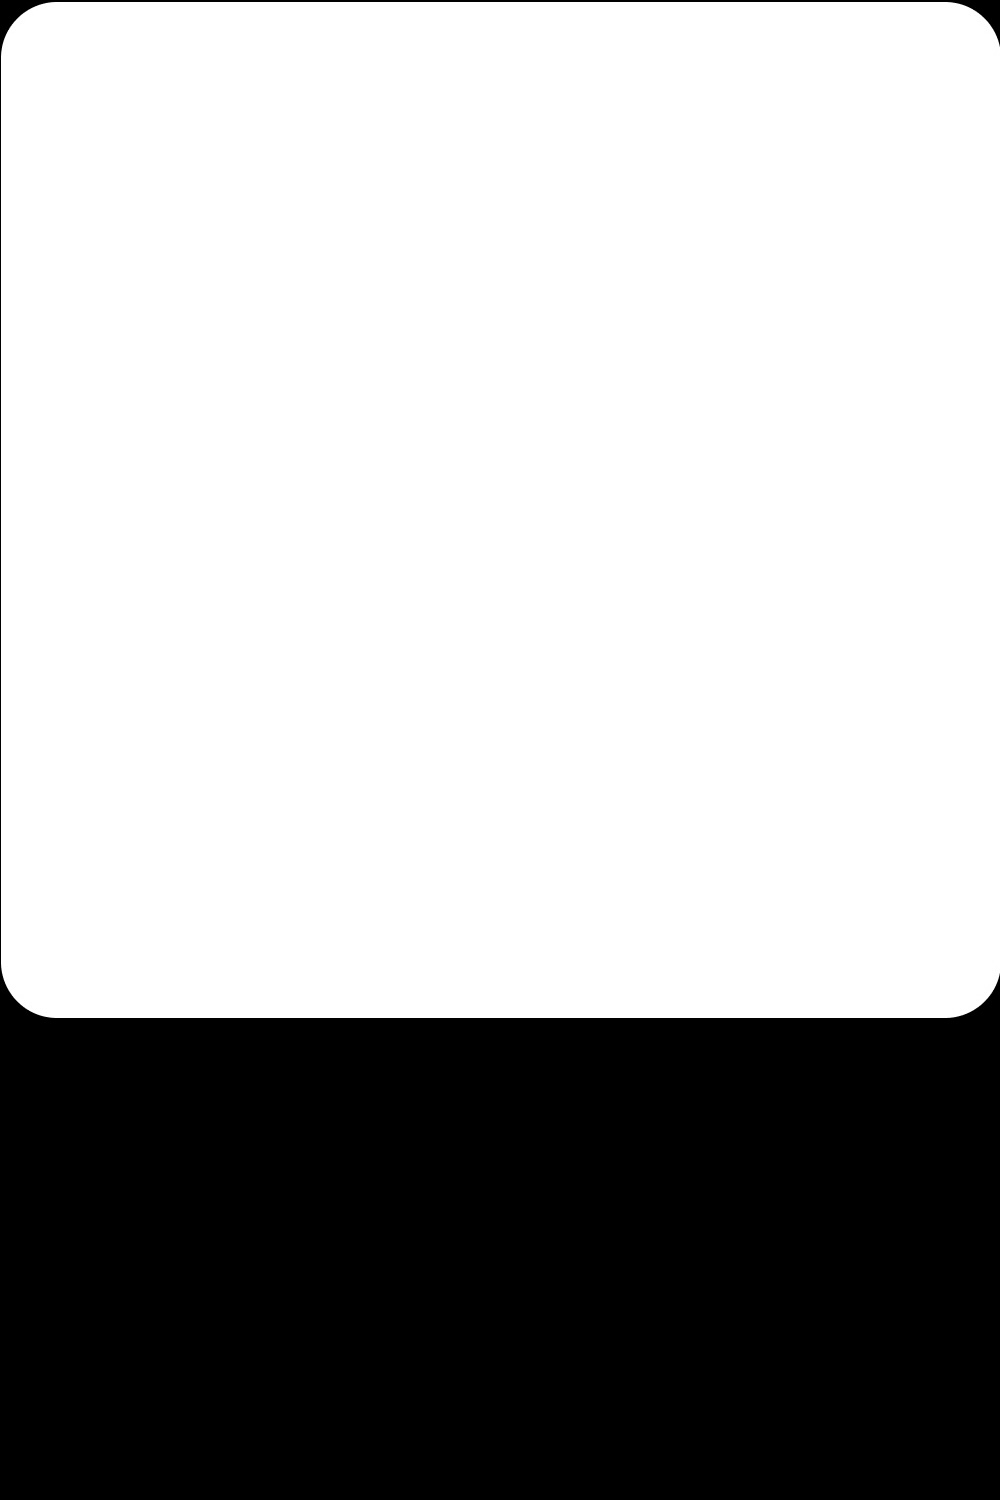
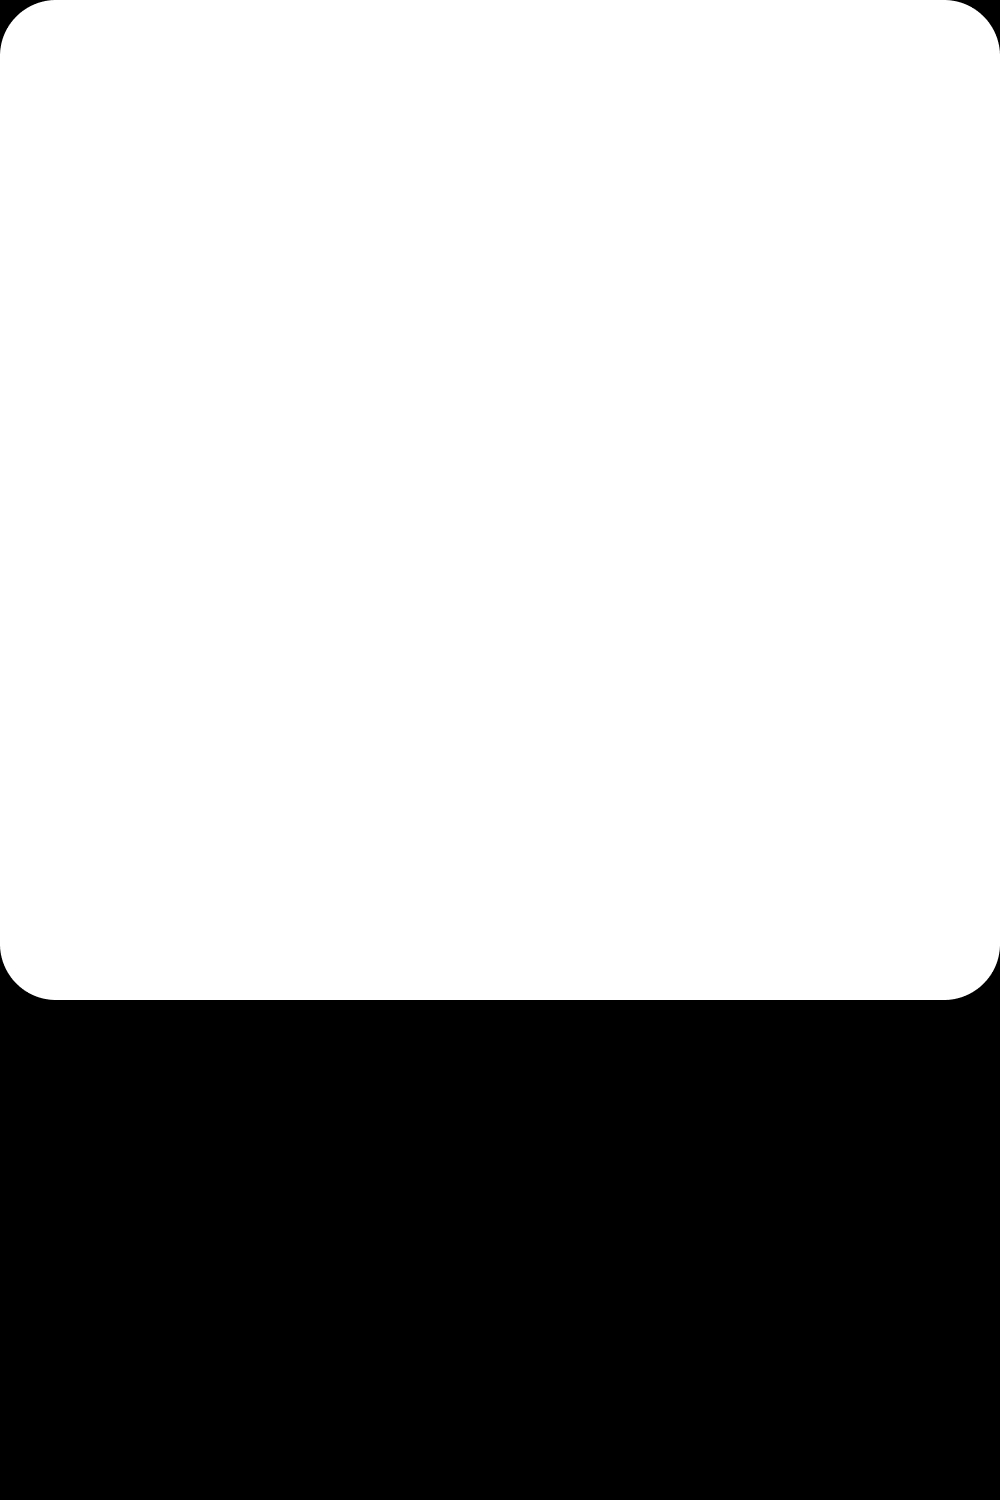
Fixed Layout for Card mesh transition

Changed region(s): [[0.0, 0.6133, 1.0, 0.7053]]

diff --git a/src/components/Layers/FooterCard.jsx b/src/components/Layers/FooterCard.jsx
@@ -6,7 +6,7 @@ const FooterCard = forwardRef(({ blendMode }, ref) => {
     return (
         <Html
             ref={ref}
-            position={[0, blendMode ? -0.38 : -1.35, 0.005]}
+            position={[0, blendMode ? -0.36 : -1.35, 0.005]}
             transform
             scale={1}
             distanceFactor={2}
